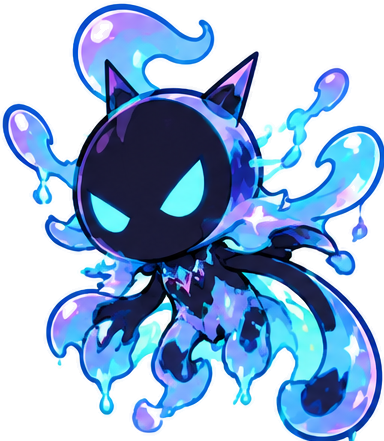
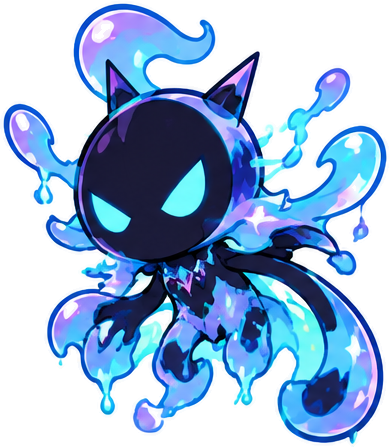
Fix entities being clipped by the sprite sheet's nominal grid cells
The previous crop still bounded each creature to its assumed 384x512 grid
cell, so any spikes/flames/limbs that legitimately extended past that
boundary into a neighboring cell were being cut off — looking like each
creature was trapped in an invisible box. Redid extraction using global
connected-component labeling on the whole sheet (no cell boundaries at
all), then picked out each creature's true full extent by its label.

diff --git a/characters.html b/characters.html
@@ -4,7 +4,7 @@
   <meta charset="UTF-8" />
   <meta name="viewport" content="width=device-width, initial-scale=1.0" />
   <title>Characters — Sanrio Chronicles</title>
-  <link rel="stylesheet" href="css/style.css?v=30" />
+  <link rel="stylesheet" href="css/style.css?v=31" />
   <link href="https://fonts.googleapis.com/css2?family=Nunito:wght@400;600;700;900&display=swap" rel="stylesheet" />
 </head>
 <body>

diff --git a/gallery.html b/gallery.html
@@ -4,7 +4,7 @@
   <meta charset="UTF-8" />
   <meta name="viewport" content="width=device-width, initial-scale=1.0" />
   <title>Gallery — Sanrio Chronicles</title>
-  <link rel="stylesheet" href="css/style.css?v=30" />
+  <link rel="stylesheet" href="css/style.css?v=31" />
   <link href="https://fonts.googleapis.com/css2?family=Nunito:wght@400;600;700;900&display=swap" rel="stylesheet" />
 </head>
 <body>

diff --git a/index.html b/index.html
@@ -4,7 +4,7 @@
   <meta charset="UTF-8" />
   <meta name="viewport" content="width=device-width, initial-scale=1.0" />
   <title>Sanrio Chronicles</title>
-  <link rel="stylesheet" href="css/style.css?v=30" />
+  <link rel="stylesheet" href="css/style.css?v=31" />
   <link href="https://fonts.googleapis.com/css2?family=Nunito:wght@400;600;700;900&display=swap" rel="stylesheet" />
 </head>
 <body>
